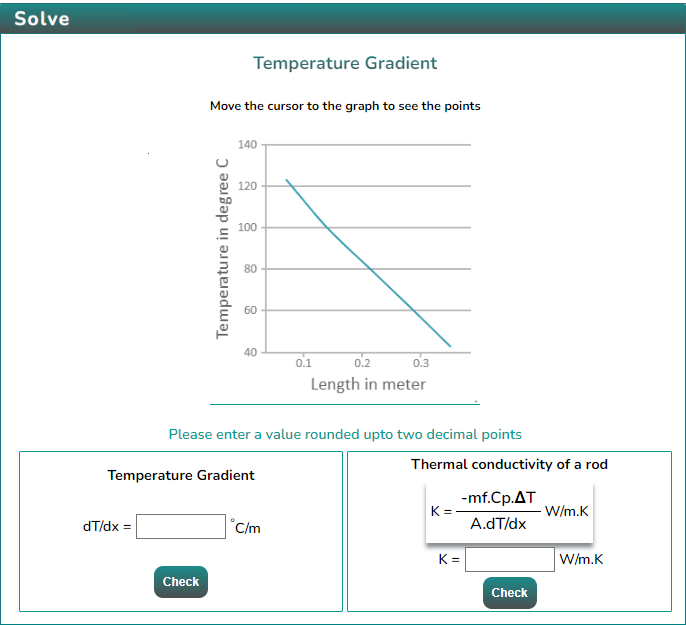
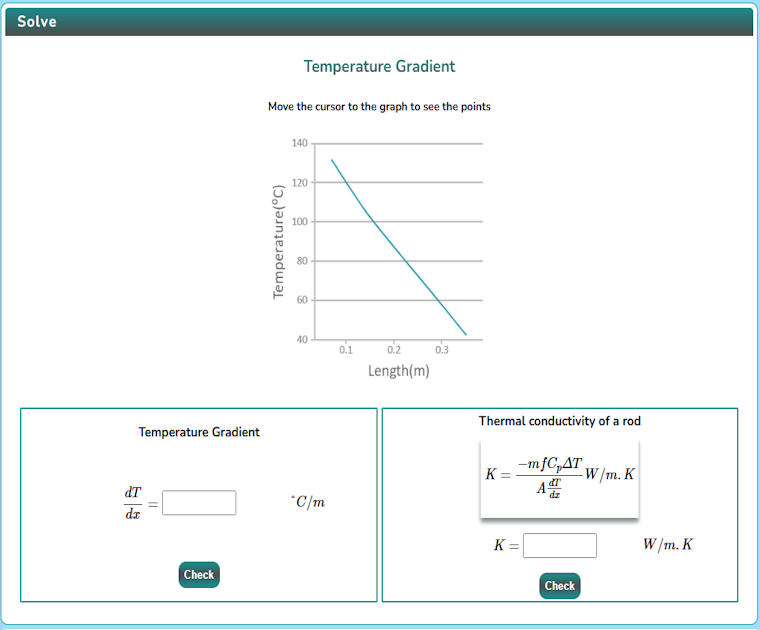
DXP1 review comments are updated: Latex equations added

diff --git a/experiment/simulation/index.html b/experiment/simulation/index.html
@@ -22,6 +22,7 @@
 
     <link rel="stylesheet" href="css/query.css" />
     <!-- <script defer src="https://code.jquery.com/jquery.min.js"></script> -->
+    <script src="https://cdn.jsdelivr.net/npm/mathjax@3/es5/tex-chtml.js"></script>
     <script
       defer
       src="https://code.jquery.com/jquery-3.7.0.min.js"
@@ -195,21 +196,22 @@
                     <div class="graph" id="graph"></div>
                   </div>
                   <div class="questions">
-                    <p class="warning"> Please enter a value rounded upto two decimal points</p>
+                    <!-- <p class="warning"> Please enter a value rounded upto two decimal points</p> -->
                     <div class="question-one">
                       <div class="question-title">Temperature Gradient</div>
-                      <p class="question-label">dT/dx = </p>
+                      <p class="question-label">$$\frac{dT}{dx}=$$ </p>
                       <input class="question-input question-input1" type="number"/>
-                      <p class="question-unit question-unit1"><sup>&deg;</sup>C/m</p>
+                      <p class="question-unit question-unit1">$$°C/m$$</p>
                       <p class="correct-answer correct-answer1 hide"></p>
                       <button class="btn btn-check btn-check1">Check</button>
                     </div>
                     <div class="question-two">
                       <div class="question-title">Thermal conductivity of a rod</div>
-                      <div class="question-formula">K = <span style="font-size: large;" class="frac"><sup>-mf.Cp.&#916;T</sup><span>&frasl;</span><sub>A.dT/dx</sub></span> W/m.K</div>
-                      <p class="question-label">K =  </p>
+                      <div class="question-formula">$$ K = \frac{-mfC_pΔT}{A\frac{dT}{dx}} W/m.K$$ </div>
+                      <!-- <div class="question-formula">K = <span style="font-size: large;" class="frac"><sup>-mf.Cp.&#916;T</sup><span>&frasl;</span><sub>A.dT/dx</sub></span> W/m.K</div> -->
+                      <p class="question-label">$$K = $$ </p>
                       <input class="question-input question-input2" type="number"/>
-                      <p class="question-unit question-unit2">W/m.K</p>
+                      <p class="question-unit question-unit2">$$W/m.K$$</p>
                       <p class="correct-answer correct-answer2 hide"></p>
                       <button class="btn btn-check btn-check2">Check</button>
                     </div>

diff --git a/experiment/simulation/js/script.js b/experiment/simulation/js/script.js
@@ -34,7 +34,8 @@ let time1 = 0;
 let time2 = 0;
 
 //point tracing section and initial(atmospheric section)
-let t1 = [27.5, 27, 27, 26.5, 27.5, 27, 26.8];
+// let t1 = [27.5, 27, 27, 26.5, 27.5, 27, 26.8];
+let t1 = [26, 26, 26, 26, 26, 26, 26];
 let th = [65, 65, 65, 65, 65];
 let off = [0, 0, 0, 0, 0];
 let slope = [-282.86, -315.71, -357.143];
@@ -445,7 +446,7 @@ function resetAll() {
   // if (temp1 == 0) {
   temp2 = 0;
   temp1 = 2;
-  t1 = [27.5, 27, 27, 26.5, 27.5, 27, 26.8];
+  t1 = [26, 26, 26, 26, 26, 26, 26];
   th = [45, 45, 45, 45, 45];
   currentVoltage = 0;
   vf = 0;

diff --git a/experiment/simulation/css/style.css b/experiment/simulation/css/style.css
@@ -382,7 +382,7 @@ h1 {
   border-radius: 0.2rem;
   padding: 0.2rem;
   display: grid;
-  grid-template-columns: 1fr 10rem 1fr;
+  grid-template-columns: 1fr 15rem 1fr;
   gap: 0.5rem;
   border: 0.2rem solid var(--clr-title-background);
 }
@@ -409,6 +409,7 @@ h1 {
   padding: 0.5rem;
 }
 .question-unit {
+  justify-self: start;
   align-self: center;
 }
 .btn-check {

diff --git a/experiment/theory.md b/experiment/theory.md
@@ -4,19 +4,23 @@ Conduction is a process of heat transfer through solids, liquids and gases. When
 
 <center>
 
-![](images/3.png)
+<!-- ![](images/3.png) -->
+
+$\frac{Q}{A} α \frac{\Delta T}{\Delta Y}$
 
 </center>
 
-Where “Q” is the heat transfer in (watts), “A” is the area of heat transfer (m<sup>2</sup>), ∆T/∆X is the temperature gradient in the direction of heat flow (⁰C/m). Where the proportionality constant is a property of a material and is known as thermal conductivity.
+Where $Q$ is the heat transfer in $(watts)$, $A$ is the area of heat transfer $(m^2)$, $∆T/∆X$ is the temperature gradient in the direction of heat flow $(⁰C/m)$. Where the proportionality constant is a property of a material and is known as thermal conductivity.
 
 <center>
 
-![](images/2.png)
+<!-- ![](images/2.png) -->
+
+$Q = -kA\frac{dT}{dx}$
 
 </center>
 
-The positive constant “k” is called the coefficient of thermal conductivity of material. The negative sign indicates that heat transfer takes place in the direction of decreasing temperature. Coefficient of thermal conductivity has the units of W/m⁰C. Note that the heat flow rate is involved and the numerical value of the coefficient of thermal conductivity indicates how fast heat will flow in each material. Thermal conductivity coefficient is a physical property of the material. Although it is constant in a narrow temperature range, it varies over a wide temperature range. Metals, which are good conductors of heat, have high values of coefficient of thermal conductivity; for example, 385 W/m⁰C for copper. Insulating materials have low values of coefficient of thermal conductivity for example 0.048 W/m⁰C for fiber insulating board. In any conduction heat transfer problem, it is essential to have the knowledge of the coefficient of thermal conductivity of the material involved in the heat transfer process.
+The positive constant $k$ is called the coefficient of thermal conductivity of material. The negative sign indicates that heat transfer takes place in the direction of decreasing temperature. Coefficient of thermal conductivity has the units of $W/m⁰C$. Note that the heat flow rate is involved and the numerical value of the coefficient of thermal conductivity indicates how fast heat will flow in each material. Thermal conductivity coefficient is a physical property of the material. Although it is constant in a narrow temperature range, it varies over a wide temperature range. Metals, which are good conductors of heat, have high values of coefficient of thermal conductivity; for example, 385 $W/m⁰C$ for copper. Insulating materials have low values of coefficient of thermal conductivity for example 0.048 $W/m⁰C$ for fiber insulating board. In any conduction heat transfer problem, it is essential to have the knowledge of the coefficient of thermal conductivity of the material involved in the heat transfer process.
 <br>The experimental setup shown in Fig. 1 has been designed to measure the temperature gradient along the length of the aluminum rod and to determine its coefficient of thermal conductivity.
 <br> The heater is placed in one end to show unidirectional (axial) heat flow, along the rod and the insulators prevent radial heat loss. Five thermocouples are placed which measures temperature. The opposite end has a cooling water jacket in which water flows at a uniform rate and the rise in temperature of water is noted, to calculate the total heat loss from the rod.
 
@@ -27,7 +31,7 @@ Fig 1. Experimental setup for determining the thermal conductivity of Metal Rod
 
 </center>
 
-The experiment is conducted in standard room temperature and pressure also ensuring there is a constant flow rate (Vf) of water.
+The experiment is conducted in standard room temperature and pressure also ensuring there is a constant flow rate $(V_f)$ of water.
 
 #### Equations/formulas:
 
@@ -35,14 +39,18 @@ Heat conducted through the rod = heat carried away by the cooling water.
 
 <center>
 
-![](images/4.png)
+<!-- ![](images/4.png) -->
+
+$Q = -kA\frac{dT}{dx} = m_fC_p(T_7 - T_6)$
 
 </center>
 
-Thus, the thermal conductivity k of metal rod can be evaluated.
+Thus, the thermal conductivity $k$ of metal rod can be evaluated.
 
 <center>
 
 ![](images/6.png)
+
+$k = - \frac{m*fC_p(T*{11} - T\_{10})}{A\frac{dT}{dx}} = -\frac{Q}{A} \times \frac{dT}{dx} $
 
 </center>
